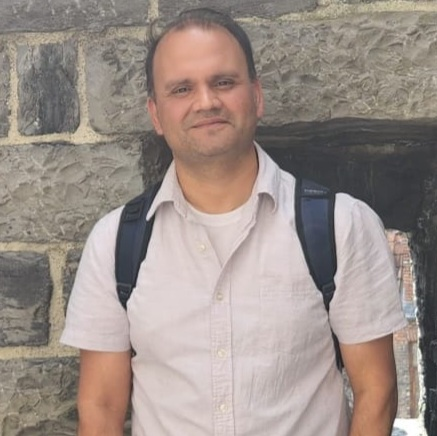
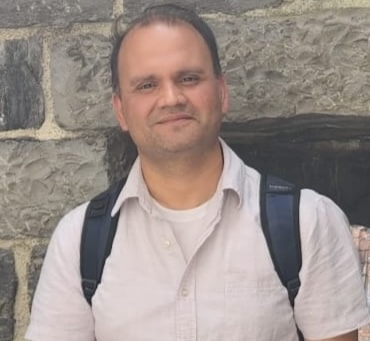
Yeah. Built from subdir

diff --git a/index.html b/index.html
@@ -207,7 +207,7 @@ function showImg (imgIndex) {
  <div class="row">
   <div class="column left">
   <br>
- <img class="circular--square" src="/assets/img/img1.jpg" width="auto" width="100%" />
+ <img class="circular--square" src="/assets/img/img1.jpg" style="width:100%" />
 
  <div class="caption">
  <p style="text-align: center;"><b><font size="+3">Vipul Bhatt </font></b> <br>Professor of Economics<br>
